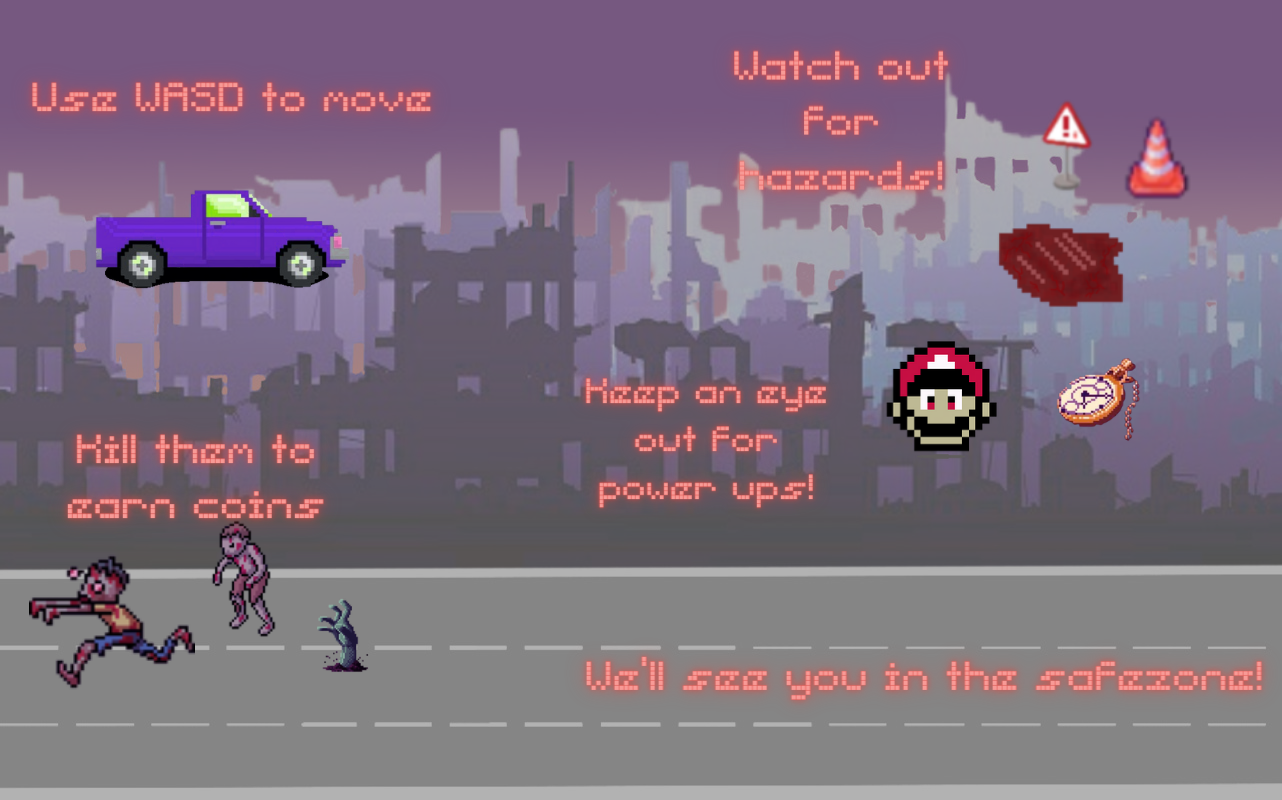
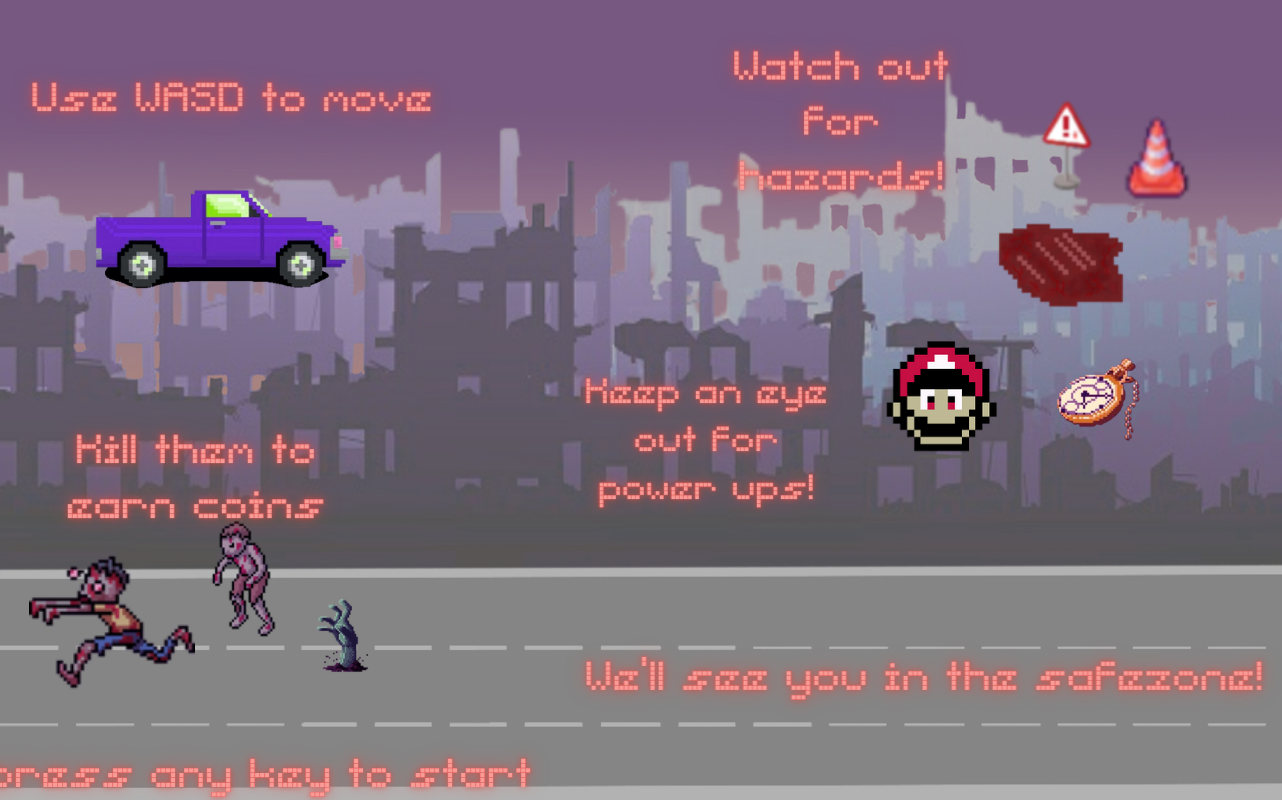
whoops forgor flip
also interpreters man...... thats tough

Changed region(s): [[0.0, 0.9375, 0.4368, 1.0]]

diff --git a/instructions.py b/instructions.py
@@ -27,3 +27,4 @@ def instructions():
                 quit()
             if event.type == pygame.KEYDOWN:
                 car_racing()
+        pygame.display.flip()
